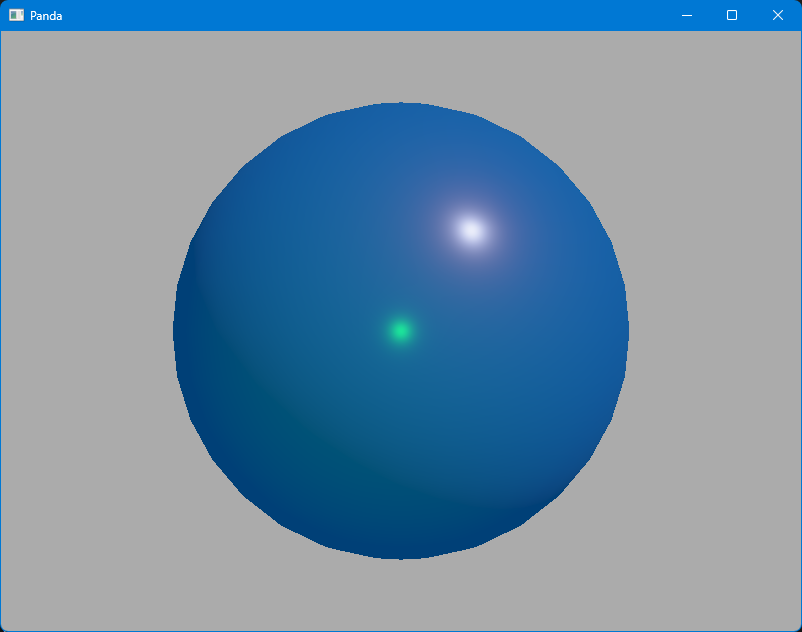
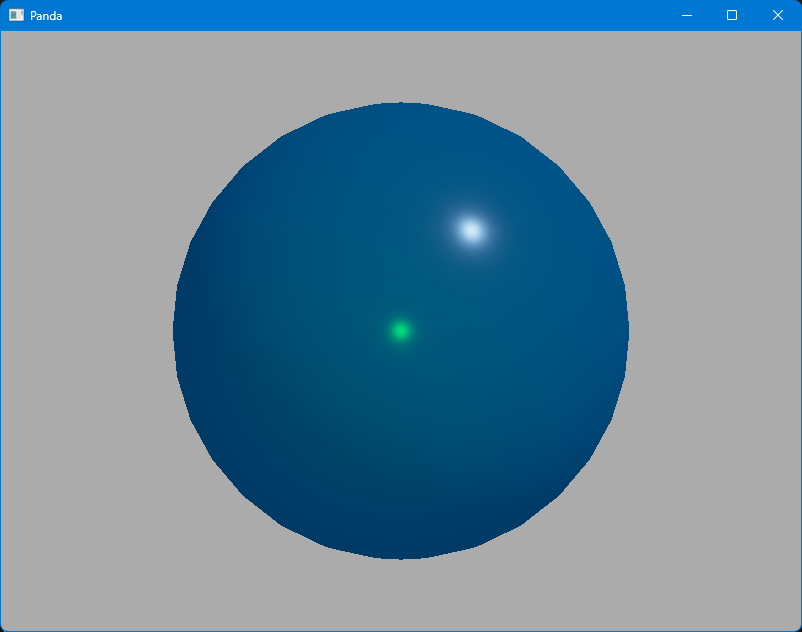
Fix lighting in PBR lesson 4.

Changed region(s): [[0.2494, 0.1503, 0.8105, 0.7816]]

diff --git a/pbr/04-cook_torrance_brdf/main.py b/pbr/04-cook_torrance_brdf/main.py
@@ -29,7 +29,7 @@ class ShaderDemo(ShowBase):
 
         # Setup lighting
         self.ambient_light = self.render.attach_new_node(AmbientLight("AmbientLight"))
-        self.ambient_light.node().set_color(Vec4(.04, .04, .04, 1))
+        self.ambient_light.node().set_color(Vec4(.2, .2, .2, 1))
         self.render.set_light(self.ambient_light)
 
         self.sun = self.render.attach_new_node(DirectionalLight("Sun"))

diff --git a/pbr/04-cook_torrance_brdf/README.md b/pbr/04-cook_torrance_brdf/README.md
@@ -202,7 +202,7 @@ vec4 applyLighting(vec4 albedo) {
     vec3 ambient = p3d_LightModel.ambient.rgb * albedo.rgb;
     vec3 color = ambient + Lo;
     color = color / (color + vec3(1.0));
-    return vec4(pow(color, vec3(1.0 / 2.2)), albedo.a);
+    return vec4(color, albedo.a);
 }
 ```
 
